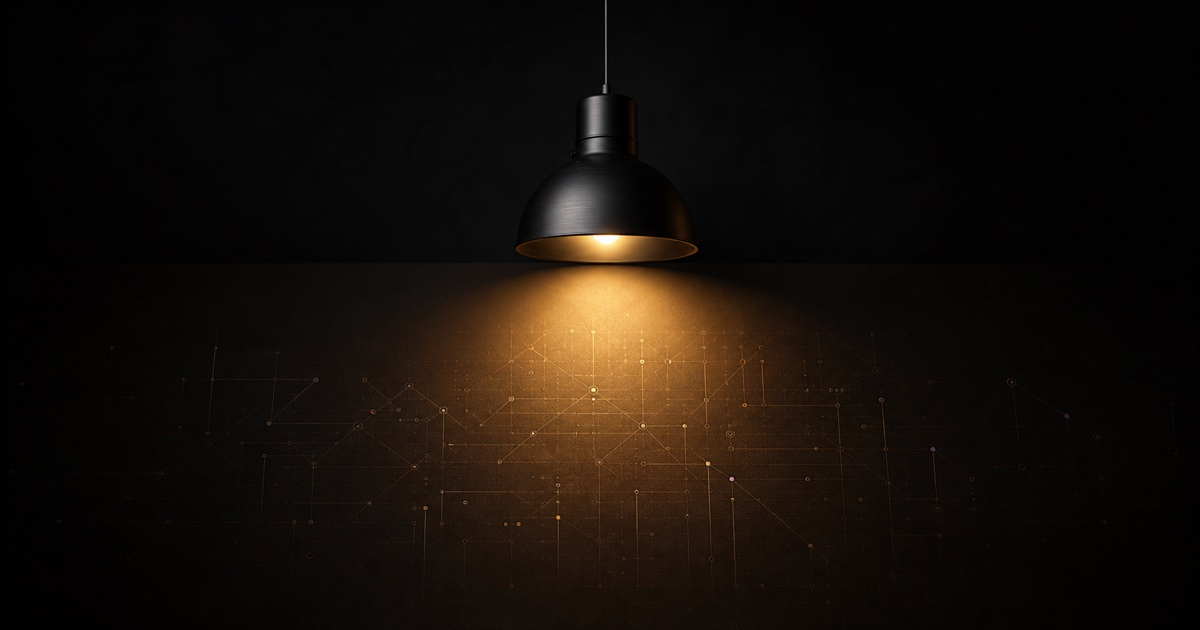
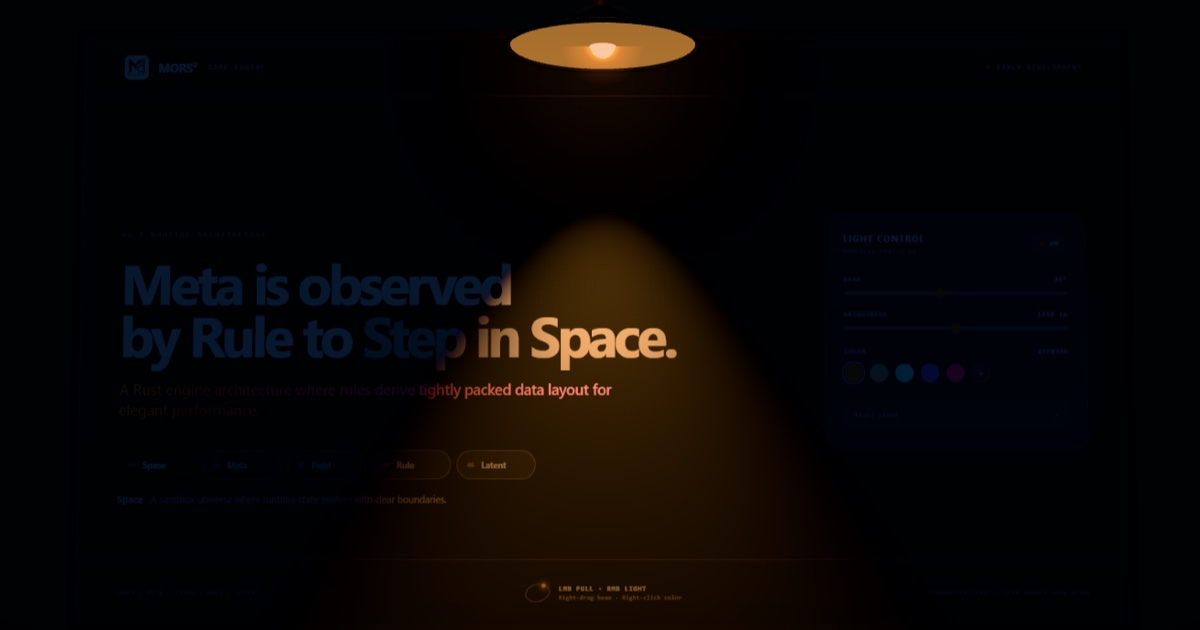
Update project attribution and preview

diff --git a/README.md b/README.md
@@ -4,6 +4,8 @@
 
 An interactive **HTML-in-Canvas** lighting experiment powered by Three.js.
 
+<p><strong>An unofficial recreation of <a href="https://x.com/kaolti">@kaolti</a>'s project.</strong></p>
+
 <a href="https://jinruozai.github.io/HTML-Light-Demo/">
   <img src="https://img.shields.io/badge/Live_Demo-Open-2ea44f?style=for-the-badge&logo=githubpages&logoColor=white" alt="Open the online demo" />
 </a>
@@ -68,10 +70,9 @@ npm test
 
 ## Credits
 
-This is an unofficial recreation inspired by
-[@kaolti](https://x.com/kaolti). The original concept and art direction are
-credited to @kaolti. This independent implementation was created for learning
-and demonstration and is not officially affiliated with the original creator.
+Original concept and art direction by [@kaolti](https://x.com/kaolti). This
+independent implementation was created for learning and demonstration and is
+not officially affiliated with the original creator.
 
 ## License
 